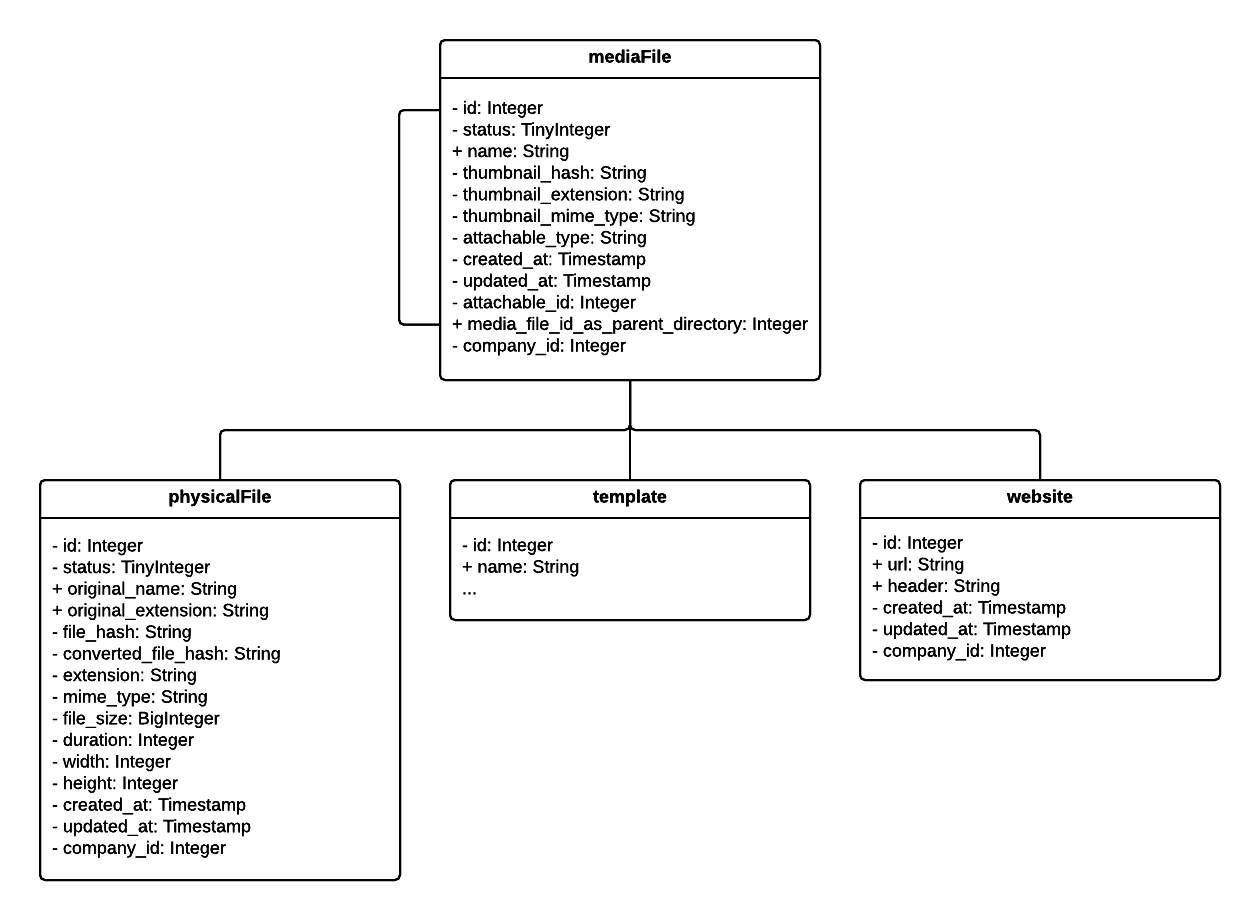
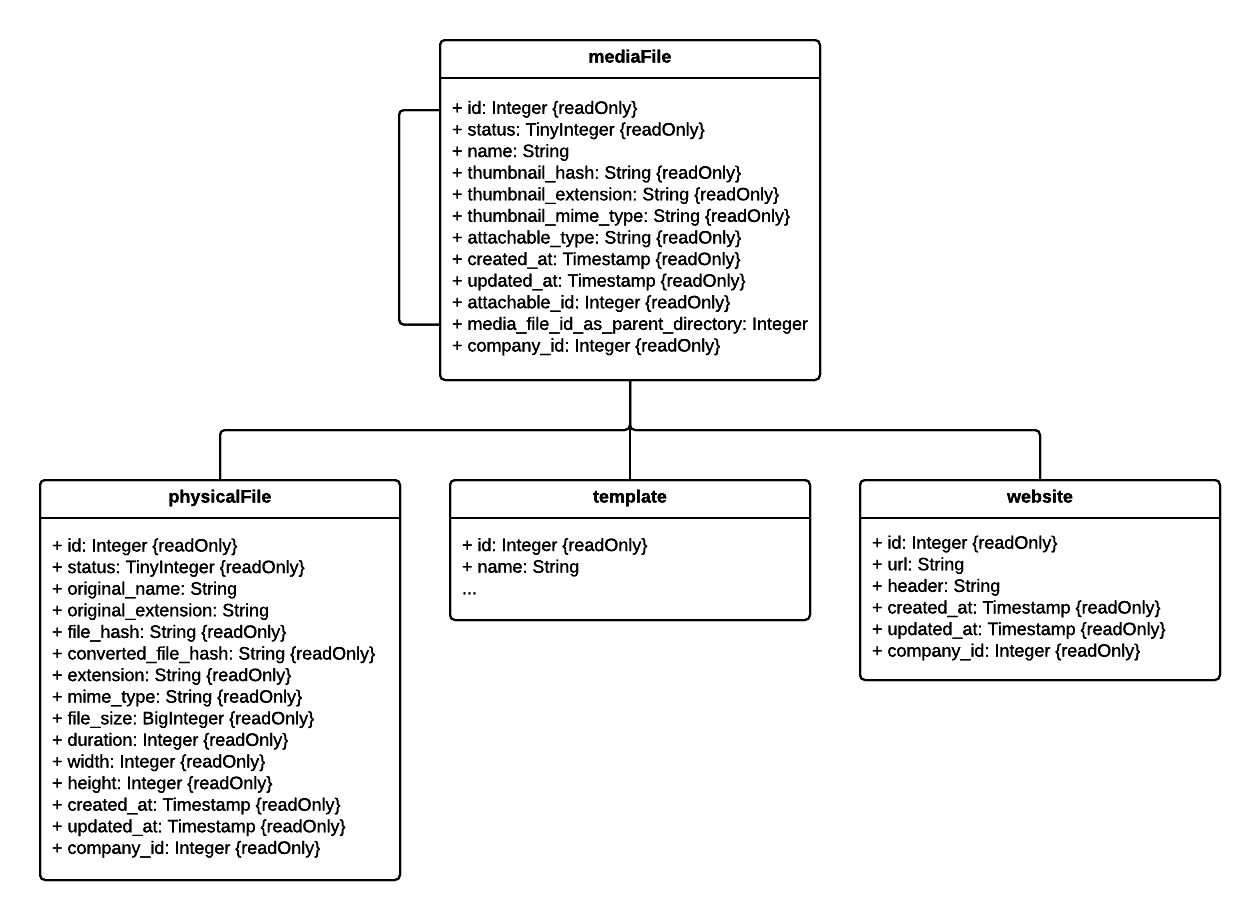
Added Mediafile Attributes to Models

diff --git a/models/mediafile/README.md b/models/mediafile/README.md
@@ -3,7 +3,7 @@
 ![mediaFile model class diagram](./diagram.png)
 
 ##MediaFile
-###id: Integer
+###id: Integer {readOnly}
 The id of the mediafile is set by the system.
 
 ###name: String (Required)
@@ -12,3 +12,44 @@ The name should be a meaningful identifier for the mediafile.
 ###media_file_id_as_parent_directory: Integer
 The id of the parent directory which can only be a mediafile without attachable. (Default NULL)
 
+###thumbnail_hash: String {readOnly}
+The hash of the thumbnail file.
+
+>**Important:** Thumbnails are generated automatically by the system.
+
+###thumbnail_extension: String {readOnly}
+The file extension of the thumbnail. 
+
+>**Important:** Thumbnails are generated automatically by the system.
+
+###thumbnail_mime_type: String {readOnly}
+The mime type of the mediafiles thumbnail.
+
+>**Important:** Thumbnails are generated automatically by the system.
+
+###attachable_type: String {readOnly}
+Attachable types are set by the system depending on which data you provide the mediafile route ([More information](http://cloud.viewneo.com/doc/api#/MediaFile)).
+
+Possible values and meanings are:
+
+| Value | Meaning |
+| --- | --- |
+| NULL | Mediafile is a directory |
+| Website | Mediafile is linked to a website |
+| Template | Mediafile is linked to a template |
+| PhysicalFile | Mediafile is linked to an uploaded physical file |
+
+###created_at: Timestamp {readOnly}
+Timestamp set by the system of when the mediafile was created.
+
+###updated_at: Timestamp {readOnly}
+Timestamp set by the system of when the mediafile was updated the last time.
+
+###attachable_id: Integer {readOnly}
+Id of the attached resource.
+
+###media_file_id_as_parent_directory: Integer
+Id of the directory where the mediafile should be stored.
+
+###company_id: Integer {readOnly}
+Id of the company that owns the mediafile. This value is set by the system.
